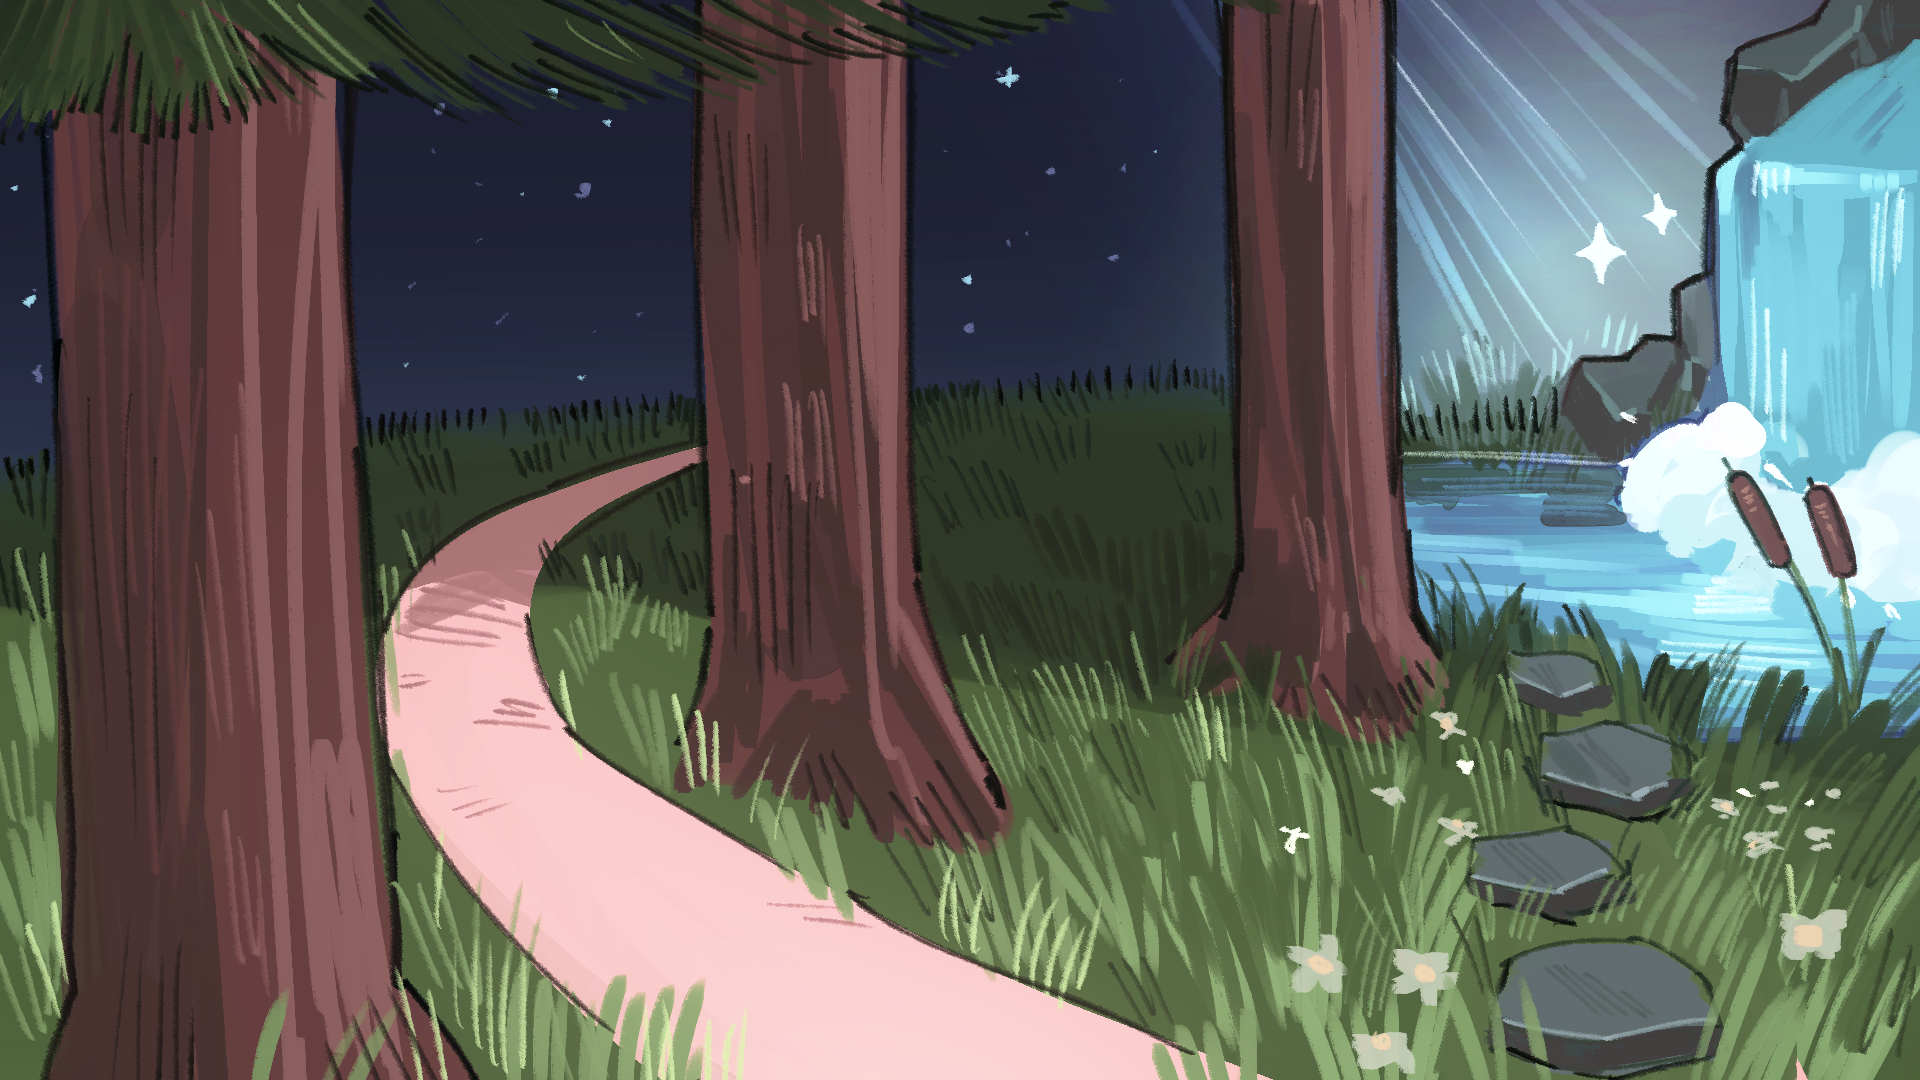
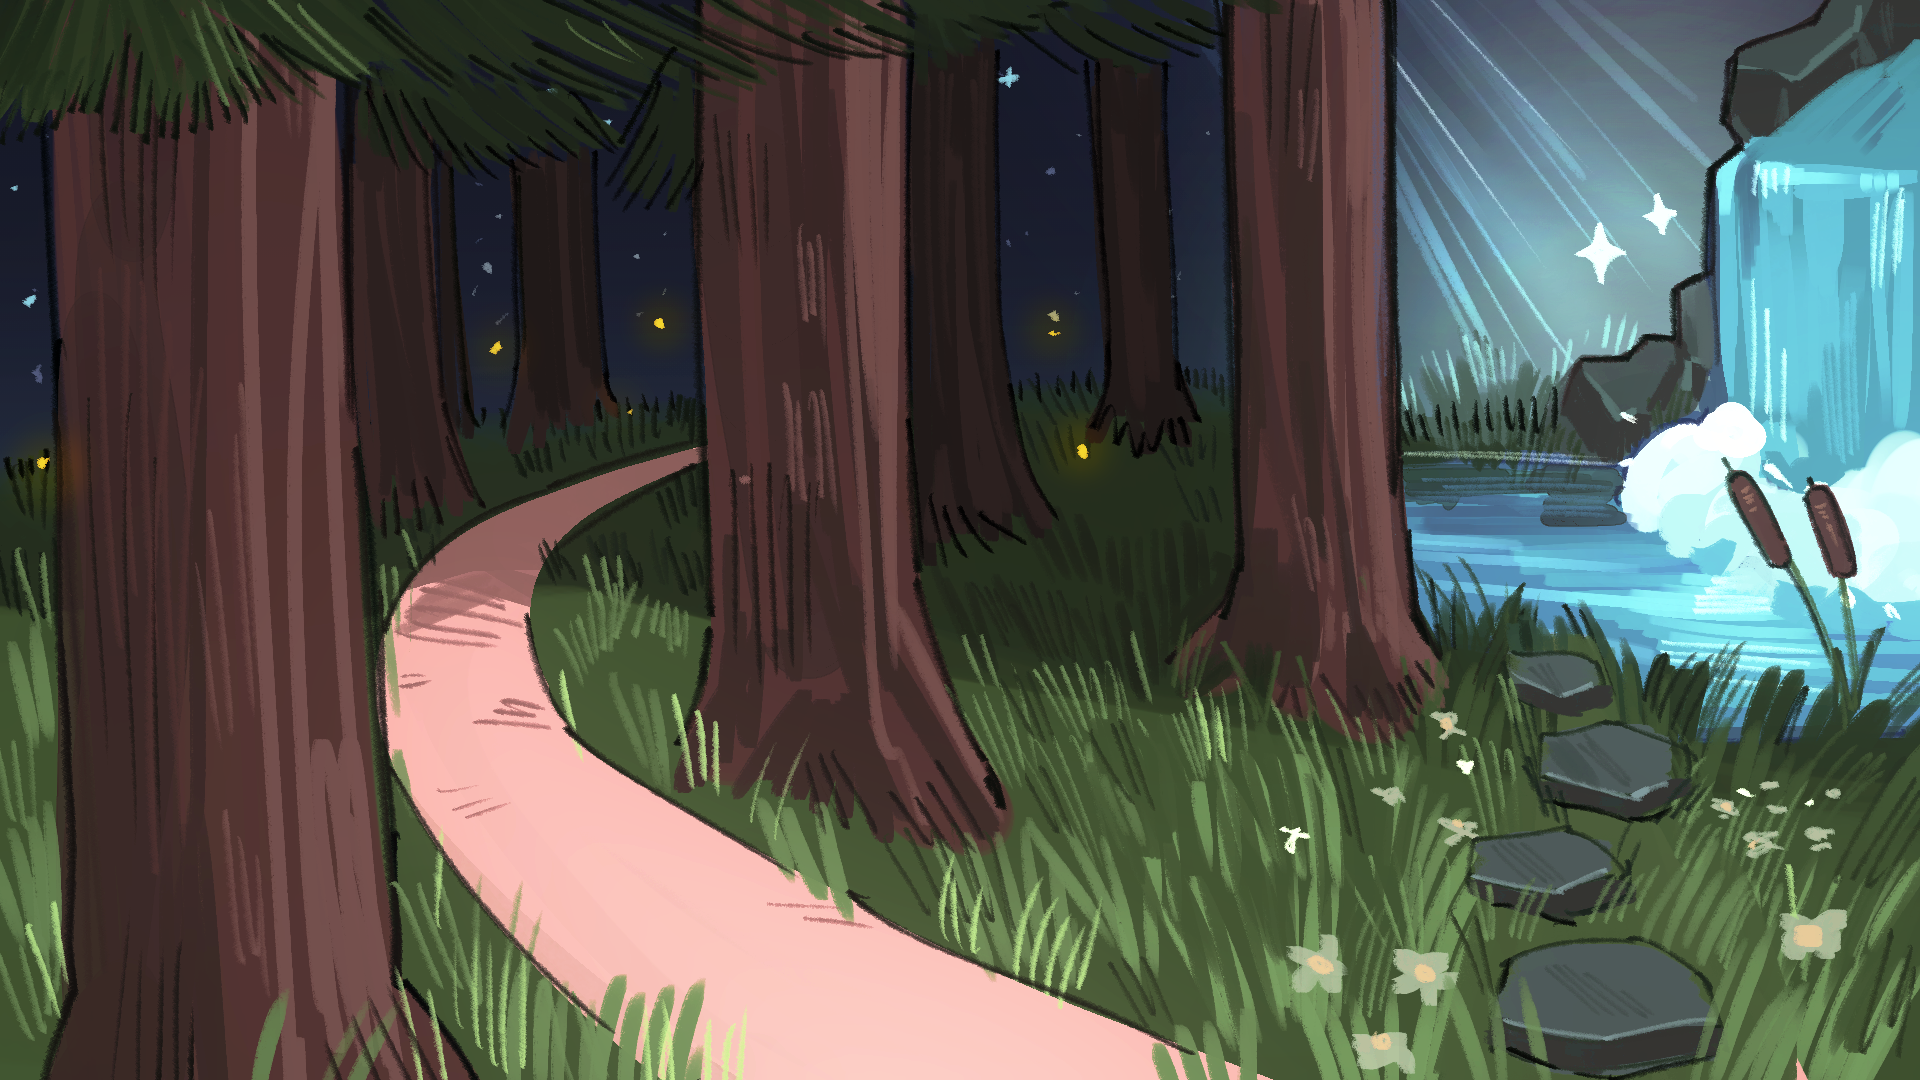
Chnages

diff --git a/SlugSurvival.css b/SlugSurvival.css
@@ -6,8 +6,8 @@ body {background-image: url(IntroBackground.png); background-size: cover;}
     padding: 0; 
     outline: none;
     position: relative;
-    top: 350px; 
-    left: 620px; 
+    top: 290px; 
+    left: 575px; 
 }
 
 #thought {
@@ -22,4 +22,40 @@ body {background-image: url(IntroBackground.png); background-size: cover;}
   width: 180px;
   z-index: 3;
   pointer-events: none;
+}
+
+.CoverScreen{
+  width: 600px;
+  margin: auto;
+}
+
+.CoverScreen img {
+  width: 600px;
+  height: auto;
+}
+
+#continue {
+  text-align: center;
+  height: 20px;
+  width: 100%;
+}
+
+#LeftImg {
+    background: transparent;
+    border: none; 
+    padding: 0; 
+    outline: none;
+    position: relative;
+    top: 400px; 
+    left: 700px; 
+}
+
+#RightImg {
+    background: transparent;
+    border: none; 
+    padding: 0; 
+    outline: none;
+    position: relative;
+    top: 450px; 
+    left: 830px; 
 }

diff --git a/SlugSurvival.js b/SlugSurvival.js
@@ -1,8 +1,7 @@
 // IntroPage Start
-$("#answer").hide();
 $("#continue").hide()
-$("#CoverScreen").hide();
-$("#MidPage").hide();
+$(".CoverScreen").hide();
+$(".MidPage").hide();
 
 $("#TvScreen").hover(
   function () {
@@ -14,26 +13,27 @@ $("#TvScreen").hover(
 );
 
 $("#TvScreen").click(function(){
-    $("body").css("background-image", 'url(');
     $("#thought").hide();
     $("#TvScreen").hide();
-    $("#answer").show();
     $("#continue").show();
-    $("#CoverScreen").show();
-    $("#answer").html("Your objective is to choose a door to go through. Each door will lead to an different path so choose wisely.")
-});
+    $(".CoverScreen").show();
 // IntroPage End
+});
 
 // MidPage Start
 $("#continue").click(function(){
     // MidPage Background Replacement
     $("body").css("background-image", 'url(MidSection1.png');
-    $("#MidPage").show();
+    $(".MidPage").show();
     // Hide the previous Instruction Screen
-    $("#answer").hide();
     $("#continue").hide();
-    $("#CoverScreen").hide();
+    $(".CoverScreen").hide();
     // Instruction Screen End
+    // MidPage1 Clickers
+    $("#LeftImg").click(function() {
+      $("#TvScreen").show();
+    });
+    $("#RightImg").click(function() {});
 });
 
 

diff --git a/index.html b/index.html
@@ -16,15 +16,18 @@
     <div class="IntroPage">
         <button id="TvScreen"><img src="Tv.png"></button>
         <div><p id="answer"></p></div>
-        <button id="continue">Continue</button>
-        <div id="CoverScreen"><div>
+        <div class="CoverScreen">
+            <img src="Introduction.png">
+            <button id="continue">Continue</button>
+        </div>
     </div>
+
     
     <!--This is the main content of the game, the choise part of it-->
     <div class="MidPage">
         <img id="BackgroundForest" src="BackgroundForest">
-        <button id="LeftImg"><img src="LeftImg"></button>
-        <button id="RightImg"><img src="RightImg"></button>
+        <button id="LeftImg"><img src="MidSection1Left.png"></button>
+        <button id="RightImg"><img src="MidSection1Right.png"></button>
     </div>
 </body>
 